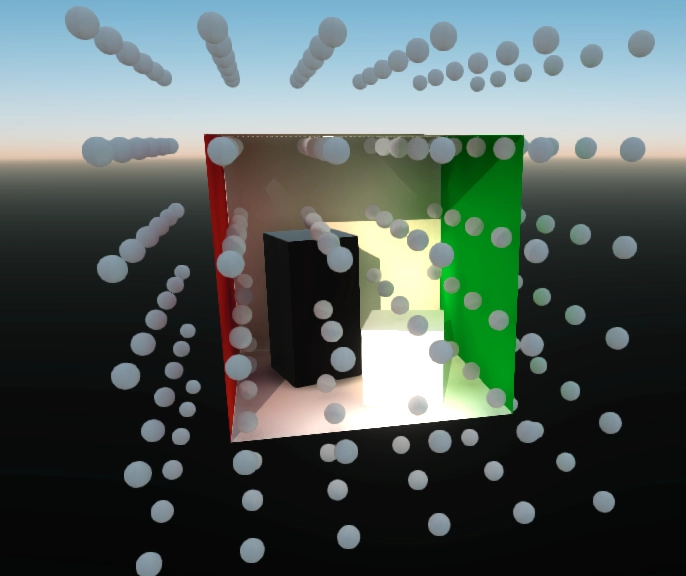
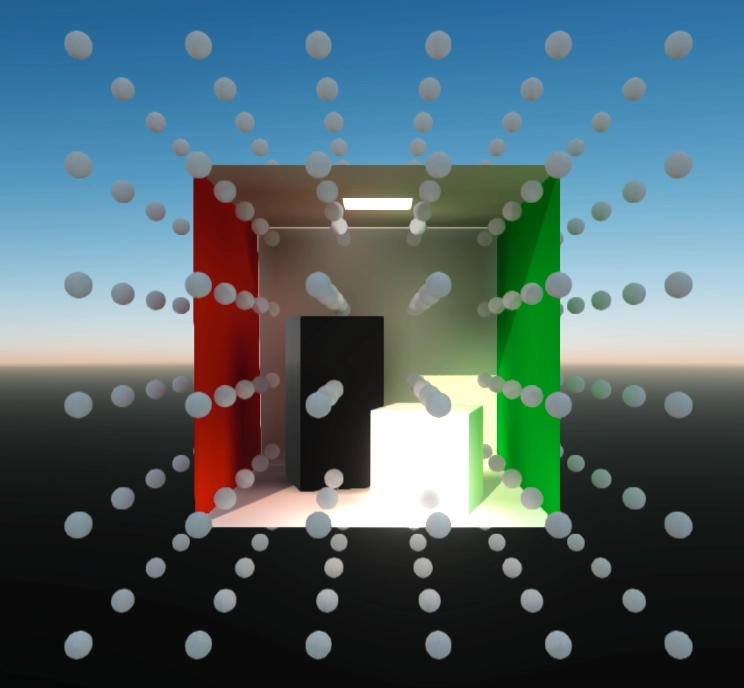
update gi doc

diff --git a/docs/guide/advanced/gi.md b/docs/guide/advanced/gi.md
@@ -1,6 +1,3 @@
----
-aside: false
----
 # 全局光照
 
 一般光照系统只考虑光源直接照射到物体表面所产生的效果，不会计算光源经过物体表面反射或折射的光线，即`间接光照`。全局光照系统能够对间接光照进行建模，实现更加逼真的光线效果。
@@ -10,28 +7,16 @@ aside: false
 ![probe](/images/gi/gi.webp)
 
 
-## 实现方案简介
+## 原理简介
 
-引擎中采用基于探针 (Probe) 的全局光照，在场景中按照设定的行列以及纵深数量放置一系列探针，收集周围物体的反射光信息。下图展示了几个（Probe）收集到的光照信息，并以颜色的形式展示出来：
-
-![probe](/images/gi/probe.webp)
-
-
-它们根据所处位置对所在区域的光照信息进行搜集和存储，形成一个动态的间接光 `Irrandiance Volume` 区域。
+引擎在场景中按照设定的行列以及纵深数量放置了一系列探针 `(Probe)`，用来收集周围物体的反射光信息。它们会根据所处位置对所在区域的光照信息进行搜集和存储，形成一个动态的间接光 `Irrandiance Volume` 区域：
 
 ![volume](/images/gi/volume.webp)
 
-在实时着色的时候，除了计算直接光源的颜色和强度，还会根据着色单元所处的世界坐标，找到对应的探针组，使用三线性插值获得周围的间接光光照信息。根据需要，你可以动态调整探针区域范围：
+在实时着色的阶段，除了计算直接光源的颜色和强度，还会根据着色单元所处的世界坐标，找到对应的探针组，使用三线性插值获得该区域周围的间接光源信息。
 
-- 通过设置 `probeXCount`, `probeYCount`, `probeZCount` 调整探针数量（渲染前设置）；
-- 通过设置 `offsetX`, `offsetY`, `offsetZ` 调整区域中心位置；
-- 通过调整 `probeSpace` 调整探针的间距；
-
-## 注意事项
-
-使用全局光照会消耗GPU的部分算力，由于所有的探针`Probe`对全场景的光照信息进行搜集，这个计算量是不可忽视的，为了让引擎能够正常流畅运行，我们做了分帧处理优化。最终GI的完整效果呈现是一个随时间累积的过程。如果你有对`Irrandiance Volume`区域做修改，其结果也不是瞬间呈现出来，需要一个响应过程。
-
-> 如果你的场景是静态的，在引擎运行了一段时间后，可以主动关闭`autoRenderProbe`，让引擎不再更新GI信息，从而解放这部分算力。
+## 使用方法
+和其它组件用法一样，只要在场景中添加 [GlobalIlluminationComponent](/api/classes/GlobalIlluminationComponent) 即可打开全局光照
 
 ```ts
 //配置Global Irrandiance 参数
@@ -40,30 +25,38 @@ Engine3D.setting.gi.probeXCount = 6
 Engine3D.setting.gi.probeZCount = 6
 Engine3D.setting.gi.probeSpace = 60
 Engine3D.setting.gi.offsetX = 0
-Engine3D.setting.gi.offsetY = 60
+Engine3D.setting.gi.offsetY = 10
 Engine3D.setting.gi.offsetZ = 0
-Engine3D.setting.gi.indirectIntensity = 1
-Engine3D.setting.gi.probeSize = 64
-Engine3D.setting.gi.octRTSideSize = 64
-Engine3D.setting.gi.octRTMaxSize = 2048
-Engine3D.setting.gi.ddgiGamma = 1
 // 自动更新GI信息，静态场景中可以在渲染完成后手动关闭节省性能
 Engine3D.setting.gi.autoRenderProbe = true
 
 //初始化引擎
-await Engine3D.init({ });
+await Engine3D.init();
+let scene = new Scene3D()
+let camera = new Object3D()
+let mainCamera = camera.addComponent(Camera3D)
+scene.addChild(camera)
 
-//初始化全局光照组件
+// 初始化全局光照组件
 let probeObj = new Object3D();
-let component = probeObj.addComponent(GlobalIlluminationComponent);
+probeObj.addComponent(GlobalIlluminationComponent);
 this.scene.addChild(probeObj);
 
-//创建渲染器
-let renderJob = new ForwardRenderJob(this.scene);
-Engine3D.startRender(renderJob);
-
+// 渲染场景
+let view = new View3D()
+view.scene = this.scene
+view.camera = mainCamera
+Engine3D.startRenderView(view)
 ```
 
+根据场景大小，用户可以动态调整探针区域范围：
+
+- 通过设置 `probeXCount`, `probeYCount`, `probeZCount` 调整探针数量（需渲染前设置）；
+- 通过设置 `offsetX`, `offsetY`, `offsetZ` 调整区域中心位置；
+- 通过调整 `probeSpace` 调整探针的间距；
+
+
+### 配置参数
 [Engine3D.setting.gi](../../api/types/GlobalIlluminationSetting.md) 配置参数。
 
 | 参数 | 类型 | 描述 |
@@ -84,6 +77,12 @@ Engine3D.startRender(renderJob);
 | octRTSideSize | number | 设置八面体贴图，每个八面体正方形的尺寸 |
 | autoRenderProbe | boolean | 设置探针是否自动更新 |
 
-<Demo src="/demos/advanced/Sample_GI.ts"></Demo>
+### 注意事项
+
+使用全局光照会消耗GPU的部分算力，由于所有的探针`Probe`对全场景的光照信息进行搜集，这个计算量是不可忽视的，为了让引擎能够正常流畅运行，我们做了分帧处理优化。最终GI的完整效果呈现是一个随时间累积的过程。如果用户对 `Irrandiance Volume` 区域做了修改，其结果也不是瞬间呈现出来，也会需要一个响应过程。
+
+> 如果你的场景是静态的，在引擎运行了一段时间后，可以主动关闭 `autoRenderProbe`，让引擎不再更新GI信息，从而解放这部分算力。
+
+<Demo :height="500" src="/demos/advanced/Sample_GI.ts"></Demo>
 
 <<< @/public/demos/advanced/Sample_GI.ts
